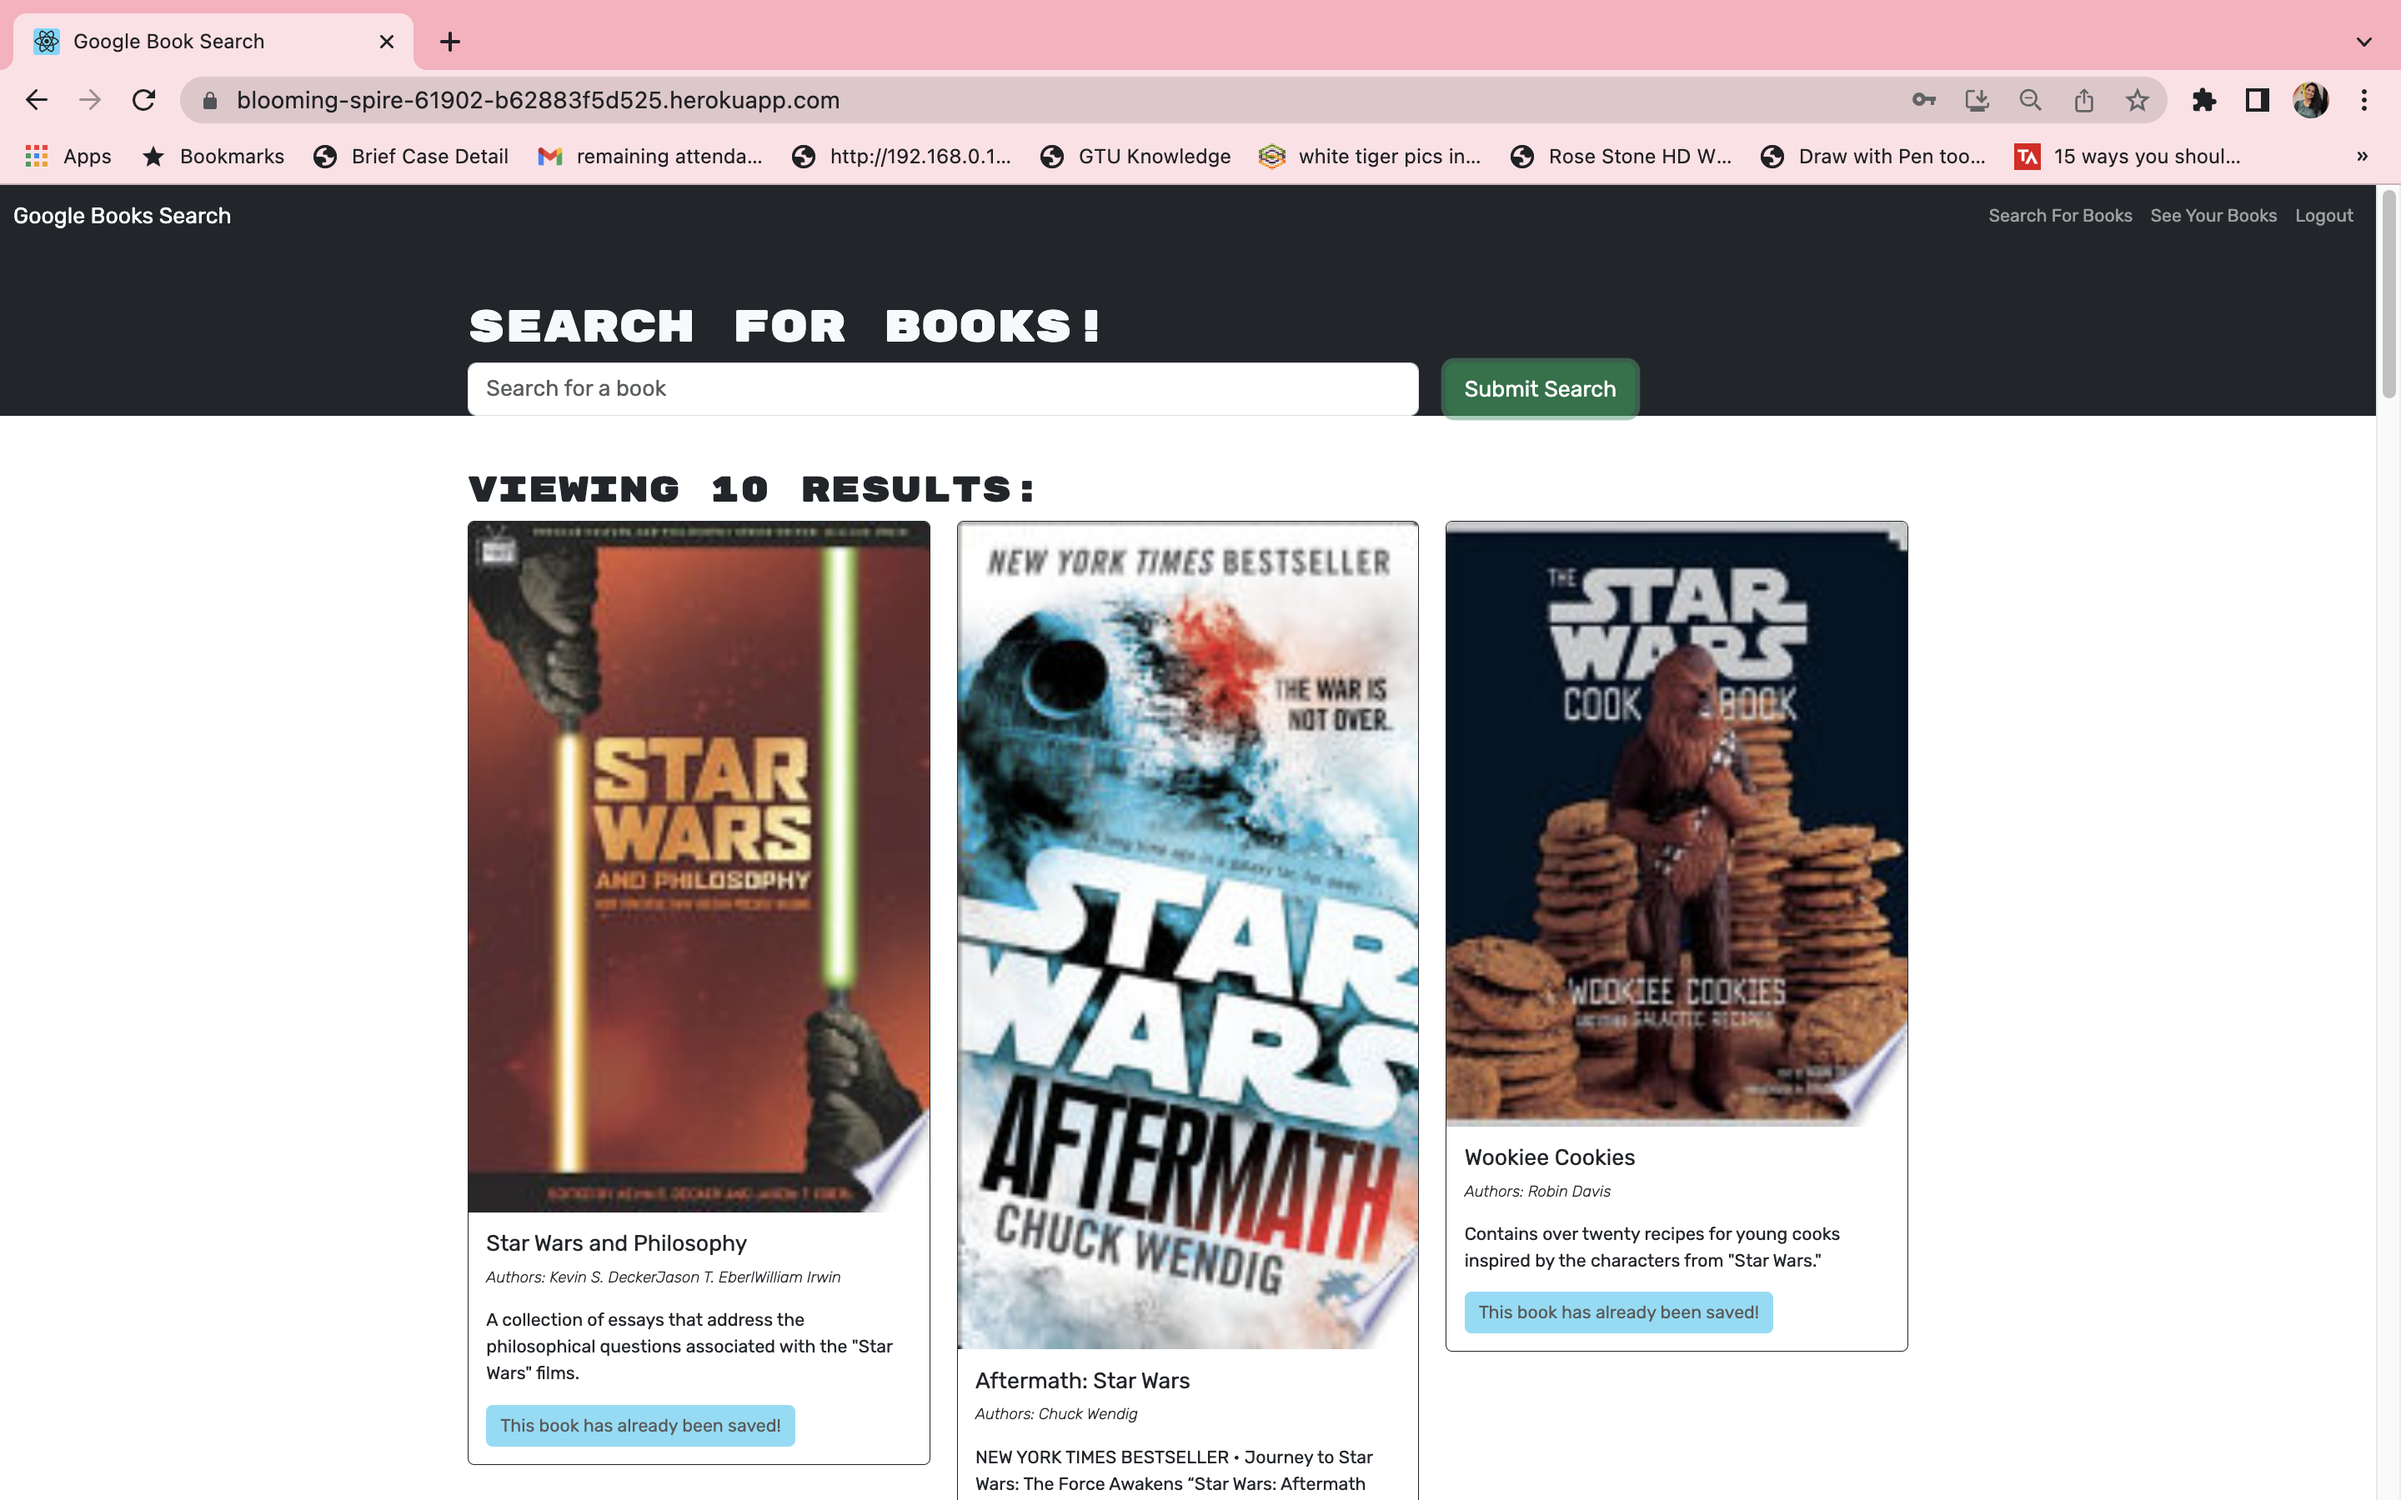
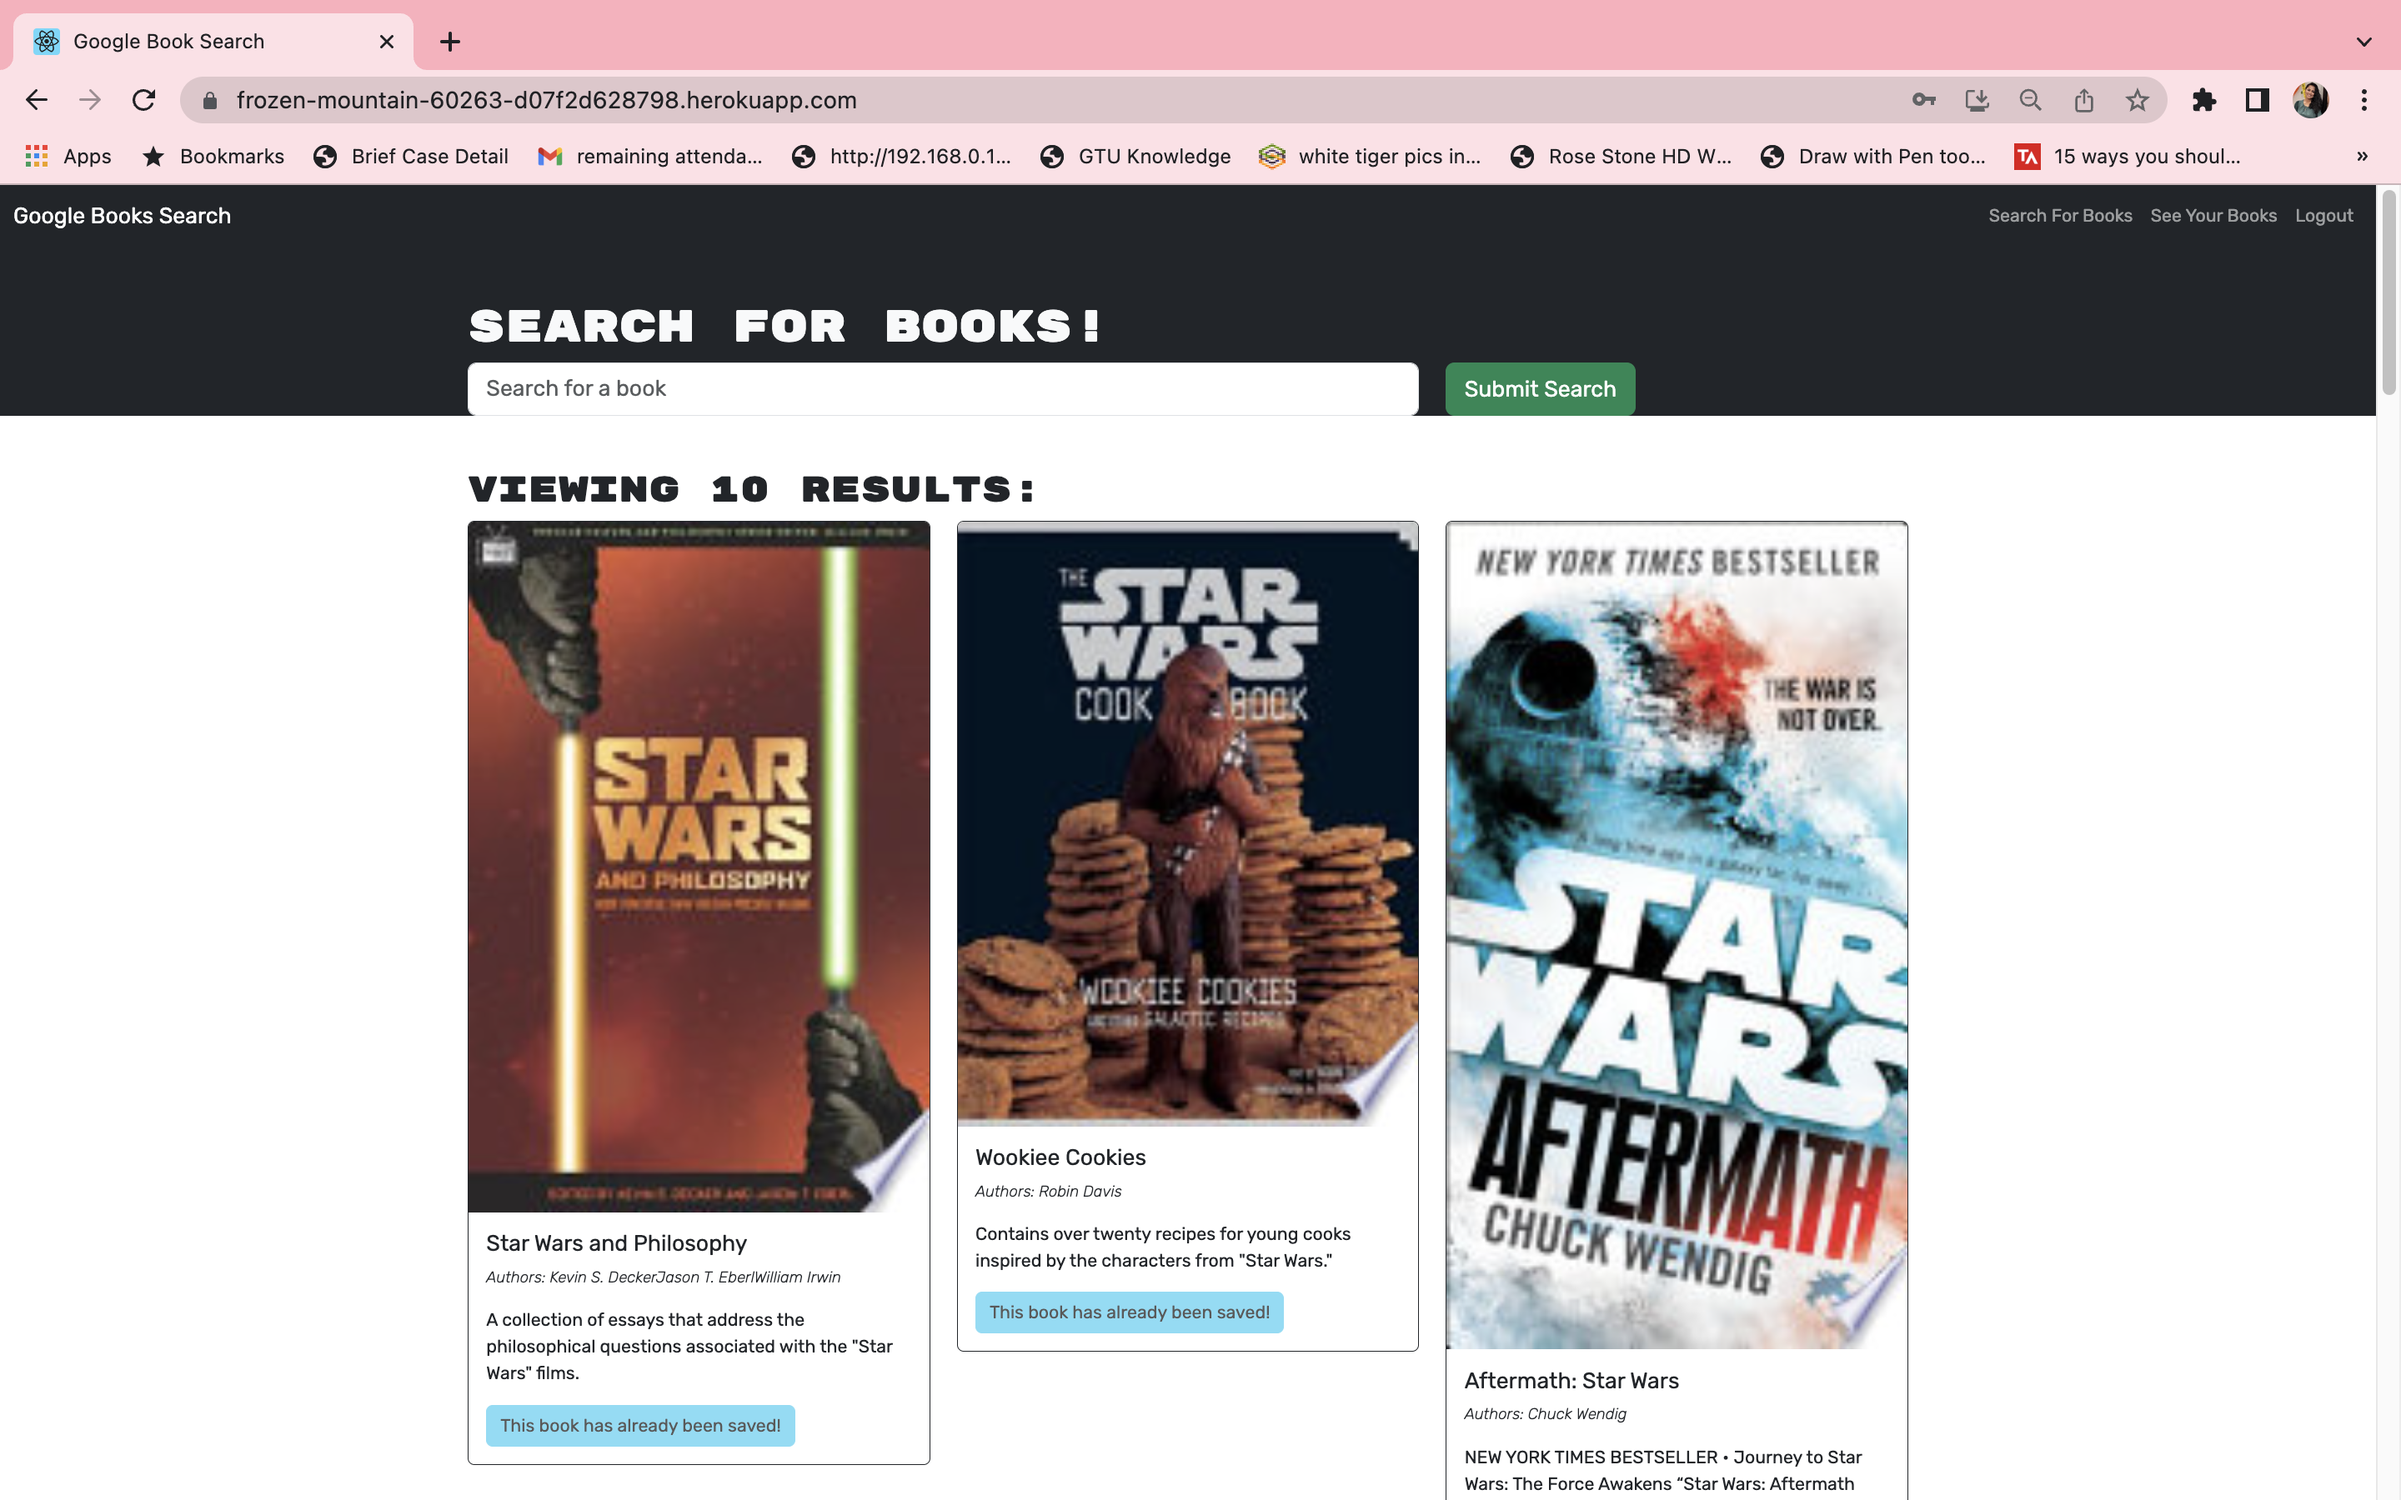
Change title in index.html

diff --git a/client/public/index.html b/client/public/index.html
@@ -1,19 +1,21 @@
 <!DOCTYPE html>
 <html lang="en">
-
-<head>
-  <meta charset="utf-8" />
-  <link rel="icon" href="%PUBLIC_URL%/favicon.ico" />
-  <meta name="viewport" content="width=device-width, initial-scale=1" />
-  <meta name="theme-color" content="#000000" />
-  <meta name="description" content="Google Books search application with login" />
-  <link rel="apple-touch-icon" href="%PUBLIC_URL%/logo192.png" />
-  <!--
+  <head>
+    <meta charset="utf-8" />
+    <link rel="icon" href="%PUBLIC_URL%/favicon.ico" />
+    <meta name="viewport" content="width=device-width, initial-scale=1" />
+    <meta name="theme-color" content="#000000" />
+    <meta
+      name="description"
+      content="Google Books search application with login"
+    />
+    <link rel="apple-touch-icon" href="%PUBLIC_URL%/logo192.png" />
+    <!--
       manifest.json provides metadata used when your web app is installed on a
       user's mobile device or desktop. See https://developers.google.com/web/fundamentals/web-app-manifest/
     -->
-  <link rel="manifest" href="%PUBLIC_URL%/manifest.json" />
-  <!--
+    <link rel="manifest" href="%PUBLIC_URL%/manifest.json" />
+    <!--
       Notice the use of %PUBLIC_URL% in the tags above.
       It will be replaced with the URL of the `public` folder during the build.
       Only files inside the `public` folder can be referenced from the HTML.
@@ -22,17 +24,18 @@
       work correctly both with client-side routing and a non-root public URL.
       Learn how to configure a non-root public URL by running `npm run build`.
     -->
-  <link href="https://fonts.googleapis.com/css2?family=Rubik+Mono+One&family=Rubik:ital,wght@0,400;1,300&display=swap"
-    rel="stylesheet">
+    <link
+      href="https://fonts.googleapis.com/css2?family=Rubik+Mono+One&family=Rubik:ital,wght@0,400;1,300&display=swap"
+      rel="stylesheet"
+    />
 
+    <title>Book Store GQL</title>
+  </head>
 
-  <title>Google Book Search</title>
-</head>
-
-<body>
-  <noscript>You need to enable JavaScript to run this app.</noscript>
-  <div id="root"></div>
-  <!--
+  <body>
+    <noscript>You need to enable JavaScript to run this app.</noscript>
+    <div id="root"></div>
+    <!--
       This HTML file is a template.
       If you open it directly in the browser, you will see an empty page.
 
@@ -42,6 +45,5 @@
       To begin the development, run `npm start` or `yarn start`.
       To create a production bundle, use `npm run build` or `yarn build`.
     -->
-</body>
-
+  </body>
 </html>

diff --git a/README.md b/README.md
@@ -69,7 +69,7 @@ For this MERN application,
 
 ![bookserachengineGIF](./client/src/assets/images/book-serach-engine.gif)
 
-The URL of the functional, deployed application - https://blooming-spire-61902-b62883f5d525.herokuapp.com/
+The URL of the functional, deployed application - https://frozen-mountain-60263-d07f2d628798.herokuapp.com/
 
 The URL of the GitHub repository - https://github.com/avanijadeja/book-search-engine
 
